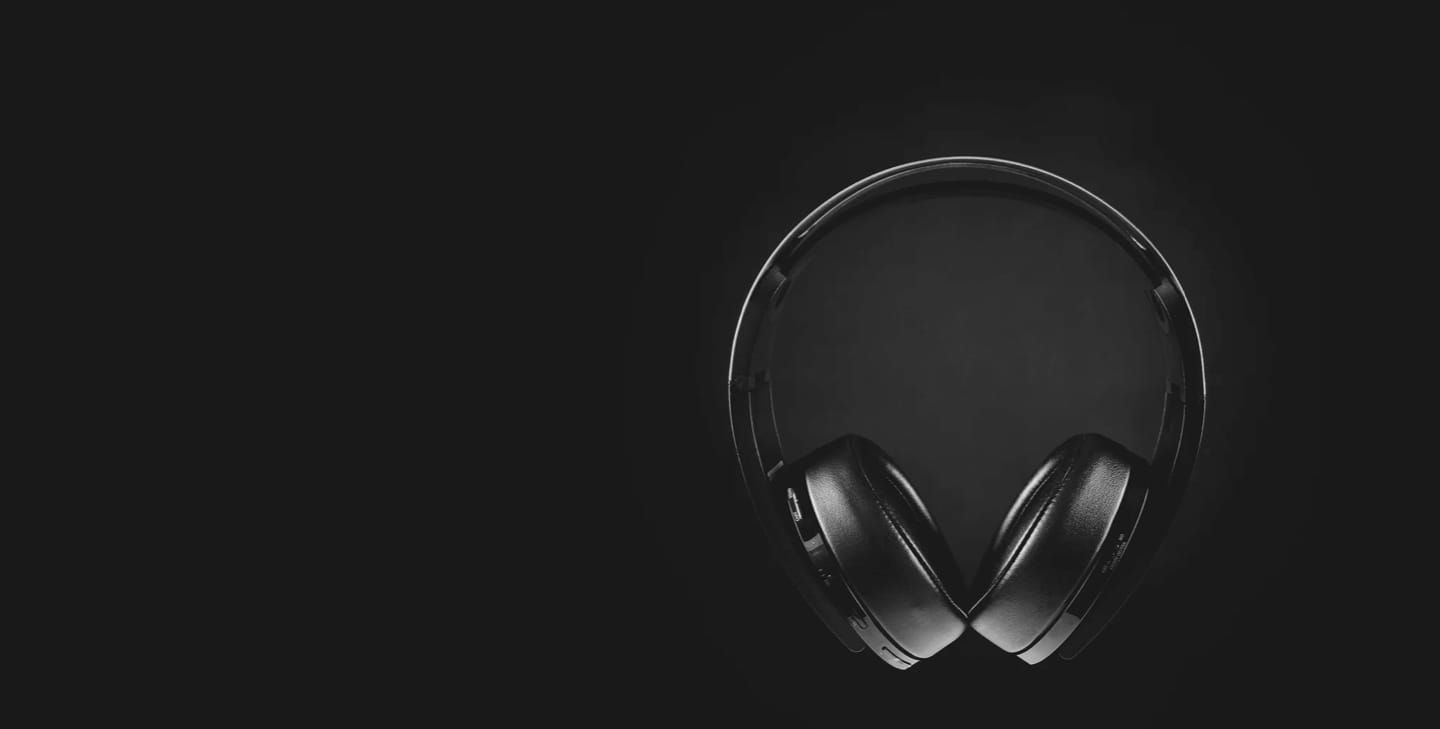
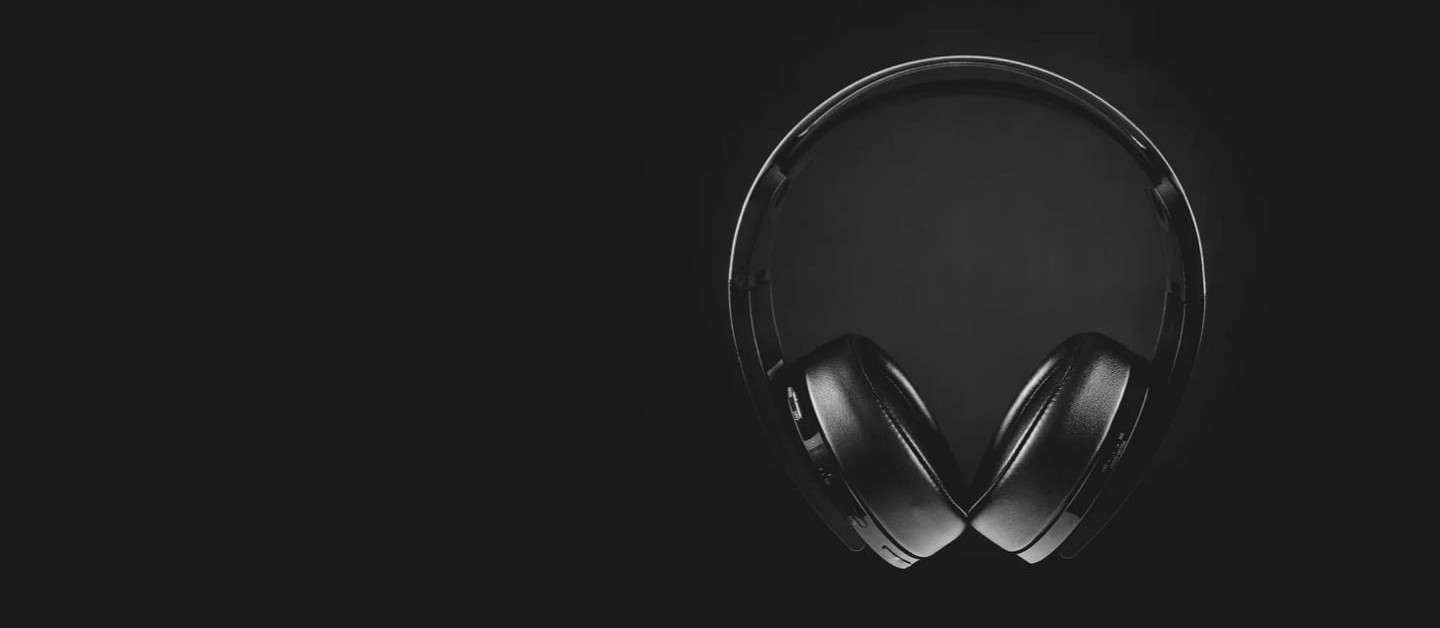
add background images and responsive styling

diff --git a/src/components/hero/hero.scss b/src/components/hero/hero.scss
@@ -5,6 +5,12 @@
   background-color: $bg-secondary;
   @include flex(column);
 
+  @include desktop {
+    background-position: center;
+    background-size: cover;
+    background-image: url("../../assets/images/home/desktop/image-hero.jpg");
+  }
+
   &__divider {
     border-top: 1px solid $text-secondary;
     opacity: 50%;
@@ -19,8 +25,6 @@
   &__container {
     @include container;
     @include flex(column);
-    gap: 1rem;
-    text-align: center;
     background-image: url("../../assets/images/home/mobile/image-header.jpg");
     background-position: center;
     background-size: cover;
@@ -28,10 +32,28 @@
 
     @include tablet-and-desktop {
       background-image: url("../../assets/images/home/tablet/image-header.jpg");
+      height: 40rem;
     }
 
     @include desktop {
       background-image: none;
+      align-items: start;
+    }
+  }
+
+  &__content {
+    @include flex(column);
+    gap: 1rem;
+    text-align: center;
+    max-width: 23rem;
+
+    @include tablet-and-desktop {
+      gap: 2rem;
+    }
+
+    @include desktop {
+      align-items: start;
+      text-align: left;
     }
   }
 
@@ -48,6 +70,7 @@
 
   &__text {
     color: $text-secondary;
+    line-height: 2rem;
   }
 
   &__btn {

diff --git a/src/components/hero/hero.jsx b/src/components/hero/hero.jsx
@@ -5,14 +5,17 @@ export default function Hero() {
     <section className="hero">
       <div className="hero__divider"></div>
       <div className="hero__container">
-        <p className="hero__overline">new product</p>
-        <h1 className="hero__title">XX99 Mark II Headphones</h1>
-        <p className="hero__text">
-          Experience natural, lifelike audio and exceptional build quality made
-          for the passionate music enthusiast.
-        </p>
-        <button className="hero__btn">see product</button>
+        <div className="hero__content">
+          <p className="hero__overline">new product</p>
+          <h1 className="hero__title">XX99 Mark II Headphones</h1>
+          <p className="hero__text">
+            Experience natural, lifelike audio and exceptional build quality
+            made for the passionate music enthusiast.
+          </p>
+          <button className="hero__btn">see product</button>
+        </div>
       </div>
+      <div className="hero__img"></div>
     </section>
   );
 }
